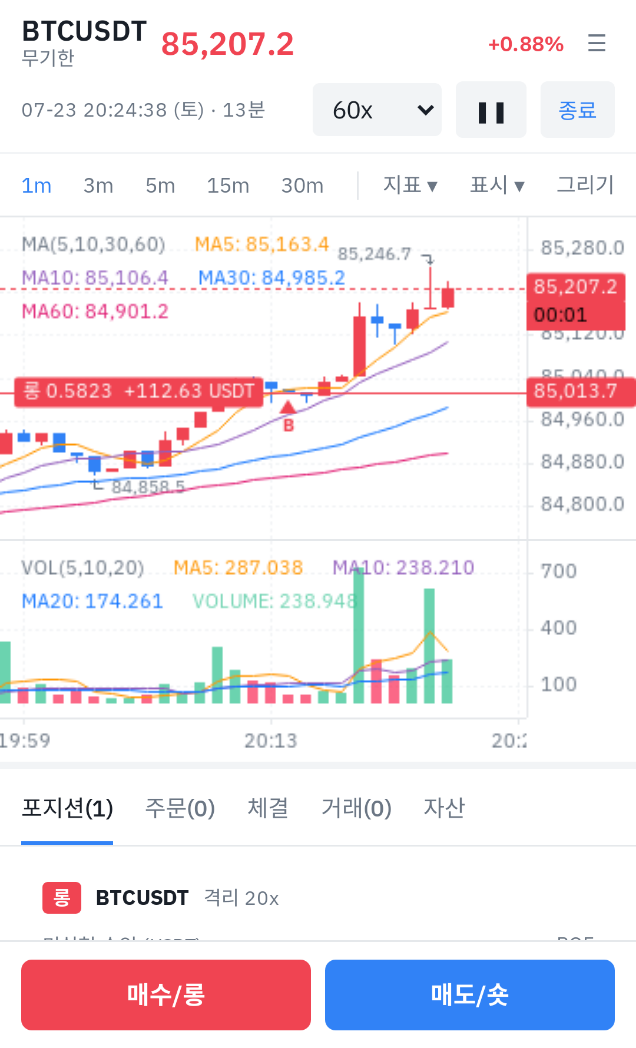
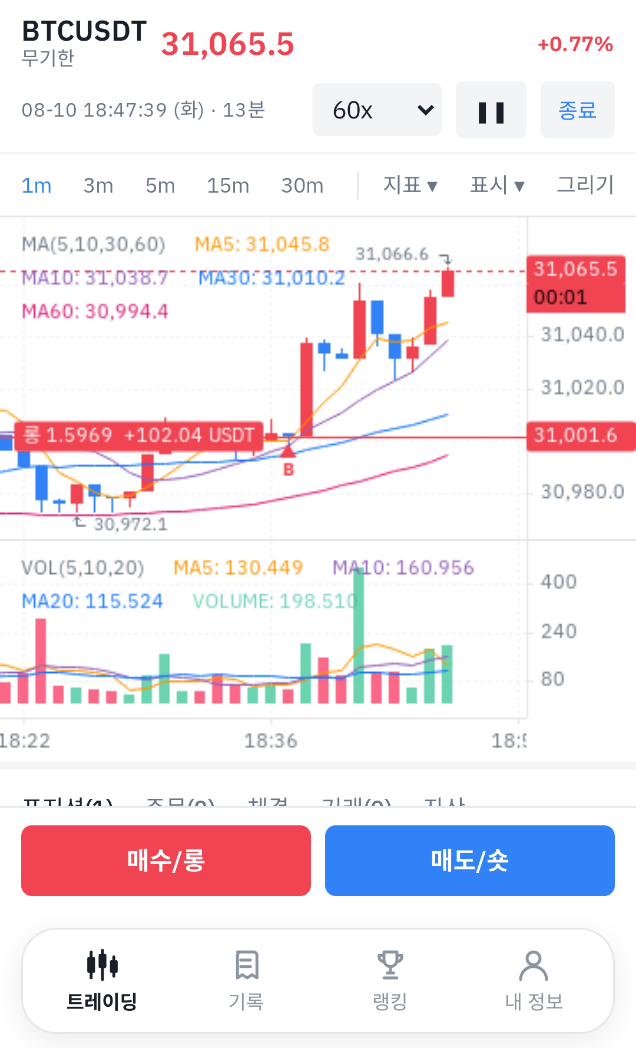
미니앱: 자체 헤더·뒤로가기 제거, 하단 탭바와 토스 뒤로가기로 화면 이동
앱인토스 심사 반려(토스 내비게이션 바 뒤로가기와 자체 헤더·뒤로가기 중복) 대응. VITE_MINIAPP 빌드에서만 바뀌고 일반 웹은 그대로다.
- 기록/랭킹 화면의 자체 헤더('‹ 트레이딩' 뒤로가기·타이틀·☰ 메뉴)를 없앴다. 트레이딩 화면은 메뉴 없이 종목·가격·라운드 조작 줄만 남긴다
- 화면 이동과 계정 기능은 하단 플로팅 탭바(트레이딩/기록/랭킹/내 정보)로 옮겼다. 내 정보: 닉네임 변경·회원 탈퇴
- 토스 뒤로가기(graniteEvent backEvent)는 최초 화면이 아닐 때만 가로채 트레이딩으로 돌아가고, 최초 화면에서는 토스 기본 동작(미니앱 종료)을 둔다
- 미니앱은 항상 모바일 레이아웃
- 심사 스크린샷(636x1048) 3장 갱신, 탭 화면 3장 추가

diff --git a/web/src/App.tsx b/web/src/App.tsx
@@ -6,6 +6,8 @@ import { AuthScreen } from './components/AuthScreen.tsx';
 import { Header, type Page } from './components/Header.tsx';
 import { NicknameDialog } from './components/NicknameDialog.tsx';
 import { RankingPage } from './components/RankingPage.tsx';
+import { AccountPage } from './components/mobile/AccountPage.tsx';
+import { MiniappTabBar } from './components/mobile/MiniappTabBar.tsx';
 import { MobileHeader } from './components/mobile/MobileHeader.tsx';
 import { MobileTrade } from './components/mobile/MobileTrade.tsx';
 import { HistoryPage } from './components/HistoryPage.tsx';
@@ -14,7 +16,8 @@ import { ResultDialog } from './components/ResultDialog.tsx';
 import { SetupDialog } from './components/SetupDialog.tsx';
 import { MINIAPP } from './env.ts';
 import { Game } from './game/game.ts';
-import { miniappLogin } from './miniapp.ts';
+import { miniappLogin, onTossBack } from './miniapp.ts';
+import { backTarget } from './miniappNav.ts';
 import { useIsMobile } from './useIsMobile.ts';
 import type { Market } from './market.ts';
 import { loadPrefs, savePrefs, type Prefs, type SetupSettings, type ViewSettings } from './settings.ts';
@@ -124,7 +127,8 @@ function Trainer({ user, initialPrefs, onChangeNickname, onLogout }: TrainerProp
   const [resultOpen, setResultOpen] = useState(false);
   // 서버가 라운드를 열 수 있는 시장 (불러오기 전과 실패 때는 코인만)
   const [available, setAvailable] = useState<Market[]>(['coin']);
-  const mobile = useIsMobile();
+  // 미니앱은 토스 앱(휴대폰) 안에서만 열리므로 항상 모바일 화면을 쓴다
+  const mobile = useIsMobile() || MINIAPP;
 
   const updatePrefs = (change: Partial<Prefs>) => {
     setPrefs((prev) => {
@@ -150,6 +154,15 @@ function Trainer({ user, initialPrefs, onChangeNickname, onLogout }: TrainerProp
       game.dispose();
     };
   }, [game]);
+
+  // 미니앱: 자체 뒤로가기 버튼 대신 토스 내비게이션 바의 뒤로가기로 최초 화면(트레이딩)에 돌아간다.
+  // 최초 화면에서는 가로채지 않아 토스 기본 동작(미니앱 종료)이 그대로 된다
+  useEffect(() => {
+    if (!MINIAPP) return;
+    const target = backTarget(page);
+    if (!target) return;
+    return onTossBack(() => setPage(target));
+  }, [page]);
 
   useEffect(() => {
     if (game.phase === 'finished') setResultOpen(true);
@@ -207,7 +220,7 @@ function Trainer({ user, initialPrefs, onChangeNickname, onLogout }: TrainerProp
   };
 
   return (
-    <div className={`app ${mobile ? 'mobile' : 'desktop'}`}>
+    <div className={`app ${mobile ? 'mobile' : 'desktop'}${MINIAPP ? ' miniapp' : ''}`}>
       {mobile ? <MobileHeader {...headerProps} /> : <Header {...headerProps} />}
 
       {mobile ? (
@@ -223,6 +236,8 @@ function Trainer({ user, initialPrefs, onChangeNickname, onLogout }: TrainerProp
       )}
       {page === 'history' && <HistoryPage mobile={mobile} />}
       {page === 'ranking' && <RankingPage mobile={mobile} />}
+      {MINIAPP && page === 'account' && <AccountPage user={user} onChangeNickname={onChangeNickname} />}
+      {MINIAPP && <MiniappTabBar page={page} onPageChange={setPage} />}
 
       {page === 'trade' && showSetup && (
         <SetupDialog

diff --git a/web/src/mobile.css b/web/src/mobile.css
@@ -404,3 +404,67 @@
   padding: 10px 14px;
   font-size: 14px;
 }
+
+/* ---------- 토스 미니앱: 하단 플로팅 탭바 (자체 헤더 대신) ---------- */
+
+.app.miniapp {
+  --tabbar-space: calc(76px + env(safe-area-inset-bottom));
+  padding-bottom: var(--tabbar-space);
+}
+/* 상단은 토스 내비게이션 바가 그린다. 트레이딩 화면에는 라운드 조작 줄만 남는다 */
+.app.miniapp .m-header-miniapp {
+  padding-top: 8px;
+}
+.app.miniapp .m-trade {
+  padding-bottom: 64px;
+}
+/* 주문 버튼 줄은 탭바 뒤까지 배경을 깔아 사이로 본문이 비치지 않게 한다 */
+.app.miniapp .m-bottom-bar {
+  padding-bottom: calc(10px + var(--tabbar-space));
+}
+.app.miniapp .toasts {
+  bottom: calc(var(--tabbar-space) + 72px);
+}
+.m-tabbar {
+  position: fixed;
+  left: 12px;
+  right: 12px;
+  bottom: calc(8px + env(safe-area-inset-bottom));
+  z-index: 45;
+  display: flex;
+  justify-content: space-around;
+  height: 60px;
+  padding: 4px;
+  background: var(--panel);
+  border: 1px solid var(--border);
+  border-radius: 20px;
+  box-shadow: 0 4px 16px rgba(0, 0, 0, 0.08);
+}
+.m-tab {
+  flex: 1;
+  display: flex;
+  flex-direction: column;
+  align-items: center;
+  justify-content: center;
+  gap: 2px;
+  color: var(--text-3);
+  font-size: 11px;
+  background: none;
+  border: none;
+}
+.m-tab.active {
+  color: var(--text);
+  font-weight: 600;
+}
+.account-page h2 {
+  margin-top: 4px;
+}
+.account-row {
+  display: flex;
+  justify-content: space-between;
+  align-items: center;
+}
+.account-danger {
+  margin-top: 24px;
+  text-align: center;
+}

diff --git a/web/src/components/mobile/MiniappTabBar.tsx b/web/src/components/mobile/MiniappTabBar.tsx
@@ -1,0 +1,33 @@
+import type { ReactNode } from 'react';
+import { MINIAPP_TABS } from '../../miniappNav.ts';
+import type { Page } from '../Header.tsx';
+
+// 앱인토스 탭바 가이드: 토스 플로팅 형태(하단에 떠 있는 둥근 막대), 탭 2~5개
+const ICONS: Record<Page, ReactNode> = {
+  trade: (
+    <path d="M5 4v16M5 8h-1.5v8H5M12 3v18M12 6h-1.5v7H12M19 7v12M19 10h-1.5v6H19M5 8h1.5v8H5M12 6h1.5v7H12M19 10h1.5v6H19" />
+  ),
+  history: <path d="M7 4h10a2 2 0 0 1 2 2v14l-3-2-3 2-3-2-3 2V6a2 2 0 0 1 2-2zM9 9h6M9 13h6" />,
+  ranking: <path d="M8 4h8v5a4 4 0 0 1-8 0zM8 6H5v1a3 3 0 0 0 3 3M16 6h3v1a3 3 0 0 1-3 3M12 13v4M8 20h8M10 17h4" />,
+  account: <path d="M12 12a4 4 0 1 0 0-8 4 4 0 0 0 0 8zM4 21a8 8 0 0 1 16 0" />,
+};
+
+export function MiniappTabBar({ page, onPageChange }: { page: Page; onPageChange: (page: Page) => void }) {
+  return (
+    <nav className="m-tabbar" aria-label="화면 이동">
+      {MINIAPP_TABS.map((t) => (
+        <button
+          key={t.page}
+          className={`m-tab ${page === t.page ? 'active' : ''}`}
+          aria-current={page === t.page ? 'page' : undefined}
+          onClick={() => onPageChange(t.page)}
+        >
+          <svg viewBox="0 0 24 24" width="22" height="22" fill="none" stroke="currentColor" strokeWidth="1.8" strokeLinecap="round" strokeLinejoin="round" aria-hidden="true">
+            {ICONS[t.page]}
+          </svg>
+          <span>{t.label}</span>
+        </button>
+      ))}
+    </nav>
+  );
+}

diff --git a/web/src/components/mobile/MobileHeader.tsx b/web/src/components/mobile/MobileHeader.tsx
@@ -75,6 +75,10 @@ export function MobileHeader(props: HeaderProps) {
   const inRound = ex && phase !== 'setup' && phase !== 'loading';
   const roundReturn = ex ? (ex.equity() / ex.rules.initialBalance - 1) * 100 : 0;
 
+  // 미니앱: 상단은 토스 내비게이션 바가 맡는다. 자체 헤더·뒤로가기·메뉴를 두지 않고,
+  // 화면 이동과 계정 기능은 하단 탭바(MiniappTabBar)로 한다. 트레이딩 화면에는 라운드 조작 줄만 남긴다
+  if (MINIAPP && page !== 'trade') return null;
+
   if (page !== 'trade') {
     return (
       <header className="m-header">
@@ -91,7 +95,7 @@ export function MobileHeader(props: HeaderProps) {
   }
 
   return (
-    <header className="m-header">
+    <header className={`m-header${MINIAPP ? ' m-header-miniapp' : ''}`}>
       <div className="m-row">
         <div className="m-symbol">
           <span className="symbol-name">{game.info.symbol}</span>
@@ -102,7 +106,7 @@ export function MobileHeader(props: HeaderProps) {
         )}
         <div className="header-spacer" />
         {inRound && <span className={`m-return mono ${pnlClass(roundReturn)}`}>{formatSigned(roundReturn)}%</span>}
-        {menu}
+        {!MINIAPP && menu}
       </div>
       {inRound && (
         <div className="m-row">

diff --git a/web/src/miniappNav.ts b/web/src/miniappNav.ts
@@ -1,0 +1,24 @@
+// 토스 미니앱 화면 이동 규칙 (앱인토스 비게임 출시 가이드 > 네비게이션 바)
+// - 자체 헤더·자체 뒤로가기 버튼을 두지 않는다. 뒤로가기는 토스 내비게이션 바(와 안드로이드 백버튼)에 맡긴다.
+// - 화면 이동은 하단 플로팅 탭바(2~5개)로 한다.
+// - 최초 화면(트레이딩)에서 뒤로가기를 누르면 미니앱이 종료된다 → 이때는 뒤로가기를 가로채지 않는다.
+
+import type { Page } from './components/Header.tsx';
+
+export const MINIAPP_TABS: { page: Page; label: string }[] = [
+  { page: 'trade', label: '트레이딩' },
+  { page: 'history', label: '기록' },
+  { page: 'ranking', label: '랭킹' },
+  { page: 'account', label: '내 정보' },
+];
+
+/** 최초 화면 */
+export const HOME_PAGE: Page = 'trade';
+
+/**
+ * 토스 뒤로가기를 눌렀을 때 갈 화면. null 이면 가로채지 않는다(토스 기본 동작 = 미니앱 종료).
+ * backEvent 리스너를 등록하면 토스 기본 뒤로가기가 막히므로, 최초 화면에서는 리스너를 두지 않아야 한다.
+ */
+export function backTarget(page: Page): Page | null {
+  return page === HOME_PAGE ? null : HOME_PAGE;
+}

diff --git a/web/src/components/mobile/AccountPage.tsx b/web/src/components/mobile/AccountPage.tsx
@@ -1,0 +1,26 @@
+import { deleteAccount } from '../../account.ts';
+import type { User } from '../../api.ts';
+
+/** 미니앱 '내 정보' 탭: 웹 헤더의 사용자 메뉴(닉네임 변경·회원 탈퇴)를 대신한다. 로그아웃은 미니앱에 없다 */
+export function AccountPage({ user, onChangeNickname }: { user: User; onChangeNickname: () => void }) {
+  return (
+    <div className="history-page account-page">
+      <h2>내 정보</h2>
+      <div className="m-card">
+        <div className="account-row">
+          <span className="muted">닉네임</span>
+          <b>{user.nickname}</b>
+        </div>
+        <button className="btn btn-block" onClick={onChangeNickname}>
+          닉네임 변경
+        </button>
+      </div>
+      <p className="hint">실제 돈이나 주문은 쓰이지 않는 모의 연습입니다. 기록과 랭킹은 이 토스 계정에 저장됩니다.</p>
+      <div className="account-danger">
+        <button className="link-btn" onClick={() => void deleteAccount()}>
+          회원 탈퇴
+        </button>
+      </div>
+    </div>
+  );
+}

diff --git a/web/src/miniapp.ts b/web/src/miniapp.ts
@@ -15,6 +15,25 @@ export function initMiniapp() {
     .catch(() => {});
 }
 
+/**
+ * 토스 뒤로가기(내비게이션 바 뒤로가기·안드로이드 백버튼)를 가로챈다. 반환 함수로 해제한다.
+ * 리스너가 있는 동안은 토스 기본 동작(미니앱 종료)이 막히므로, 최초 화면이 아닐 때만 등록한다.
+ */
+export function onTossBack(handler: () => void): () => void {
+  let unsubscribe: (() => void) | null = null;
+  let cancelled = false;
+  void import('@apps-in-toss/web-framework')
+    .then(({ graniteEvent }) => {
+      if (cancelled) return;
+      unsubscribe = graniteEvent.addEventListener('backEvent', { onEvent: handler, onError: () => {} });
+    })
+    .catch(() => {});
+  return () => {
+    cancelled = true;
+    unsubscribe?.();
+  };
+}
+
 /** 토스 익명 사용자 키로 회원 자동 생성·로그인. 가입·로그인 화면은 없다 */
 export async function miniappLogin(): Promise<User> {
   const { User: TossUser } = await import('@apps-in-toss/web-framework');

diff --git a/web/src/miniappNav.test.ts b/web/src/miniappNav.test.ts
@@ -1,0 +1,19 @@
+import { describe, expect, it } from 'vitest';
+import { HOME_PAGE, MINIAPP_TABS, backTarget } from './miniappNav.ts';
+
+describe('미니앱 화면 이동', () => {
+  it('최초 화면에서는 뒤로가기를 가로채지 않아 미니앱이 종료된다', () => {
+    expect(backTarget(HOME_PAGE)).toBeNull();
+  });
+
+  it('다른 탭에서 뒤로가기를 누르면 최초 화면으로 돌아간다', () => {
+    for (const page of ['history', 'ranking', 'account'] as const) expect(backTarget(page)).toBe(HOME_PAGE);
+  });
+
+  it('탭바는 앱인토스 기준(2~5개)을 지키고 최초 화면이 첫 탭이다', () => {
+    expect(MINIAPP_TABS.length).toBeGreaterThanOrEqual(2);
+    expect(MINIAPP_TABS.length).toBeLessThanOrEqual(5);
+    expect(MINIAPP_TABS[0].page).toBe(HOME_PAGE);
+    expect(new Set(MINIAPP_TABS.map((t) => t.page)).size).toBe(MINIAPP_TABS.length);
+  });
+});

diff --git a/web/src/components/Header.tsx b/web/src/components/Header.tsx
@@ -31,7 +31,8 @@ function SimClock({ game }: { game: Game }) {
   );
 }
 
-export type Page = 'trade' | 'history' | 'ranking';
+/** account(내 정보)는 미니앱 탭바에만 있다. 웹은 헤더의 사용자 메뉴를 쓴다 */
+export type Page = 'trade' | 'history' | 'ranking' | 'account';
 
 export interface HeaderProps {
   game: Game;
